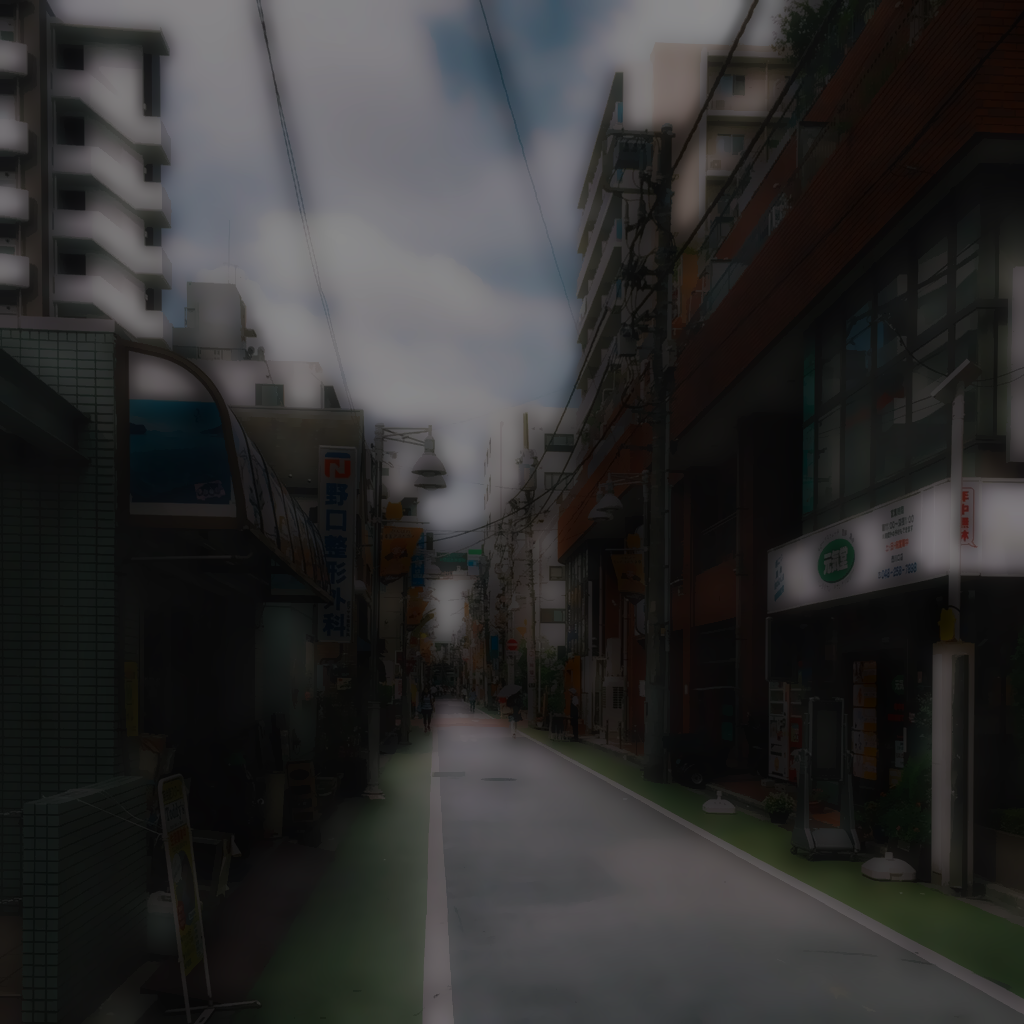
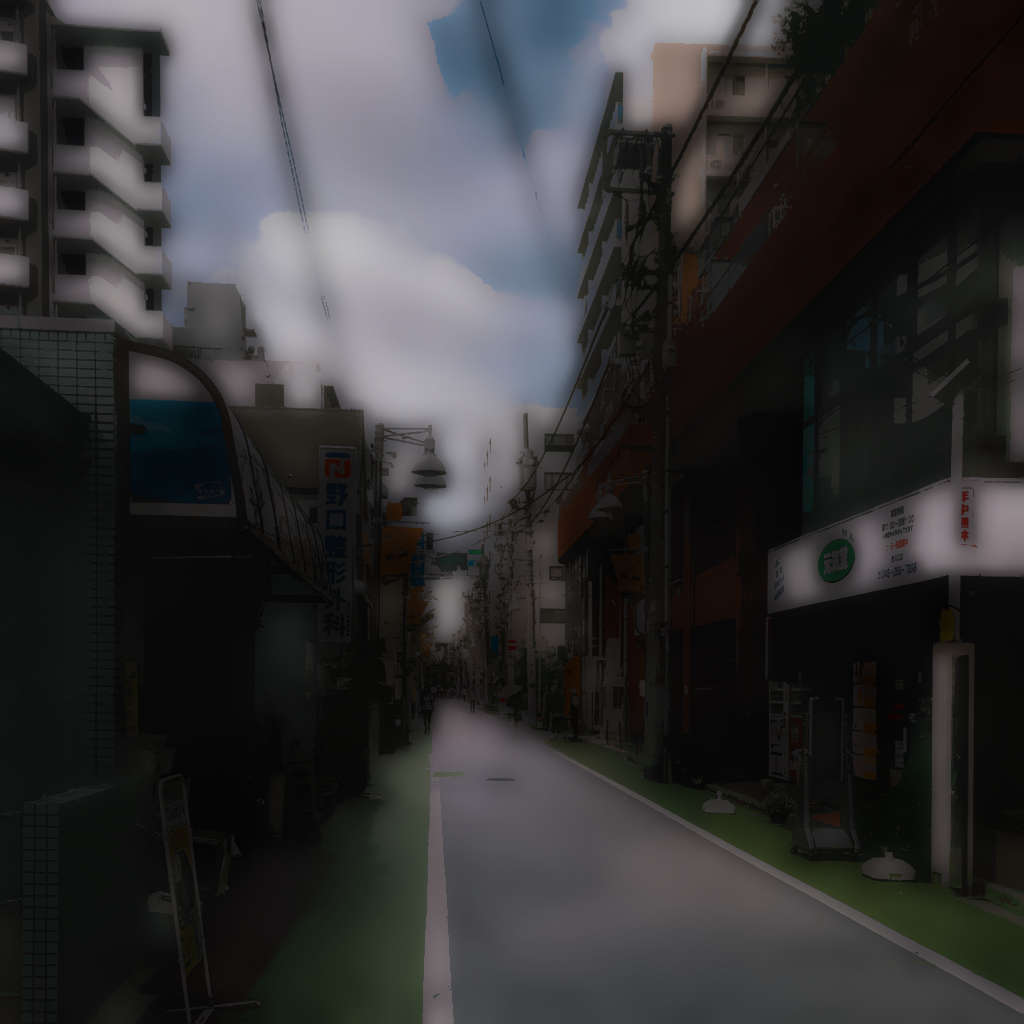
Update

diff --git a/styletransfer/animation/animation.py b/styletransfer/animation/animation.py
@@ -78,11 +78,11 @@ def color_matching(img,dark):
     dark = dark / 255
     img = img.copy()
     img = saturation(img,.5)
-    img = contrast(img,-.9) * dark.reshape((*dark.shape,1)) + (1 - dark.reshape((*dark.shape,1))) * img
+    img = contrast(img,-.3) * dark.reshape((*dark.shape,1)) + (1 - dark.reshape((*dark.shape,1))) * img
     ligten = img * dark.reshape((*dark.shape,1))
     cv2.imwrite('lighten_area.png',ligten)
     img = tonemapping(img,-.2) * (1 - dark.reshape((*dark.shape,1))) + dark.reshape((*dark.shape,1)) * img
-    img = luminance(img,.5)
+    img = luminance(img,.2)
     return img
 
 def clean_noise(img,threshold=32):
@@ -110,8 +110,9 @@ def animation(image):
     # cv2.imwrite('dark_mask.png', dark_mask)
     color = image.copy()
     image = cv2.cvtColor(image,cv2.COLOR_BGR2GRAY)
-    for _ in range(3):
-        color = cv2.bilateralFilter(color,9,17,17)
+    # for _ in range(3):
+    #     color = cv2.bilateralFilter(color,9,17,17)
+    color = cv2.pyrMeanShiftFiltering(color,30,30)
     tone = color_matching(color,dark_blur)
     kernel = np.array([[1,0],
                        [0,-1]])
